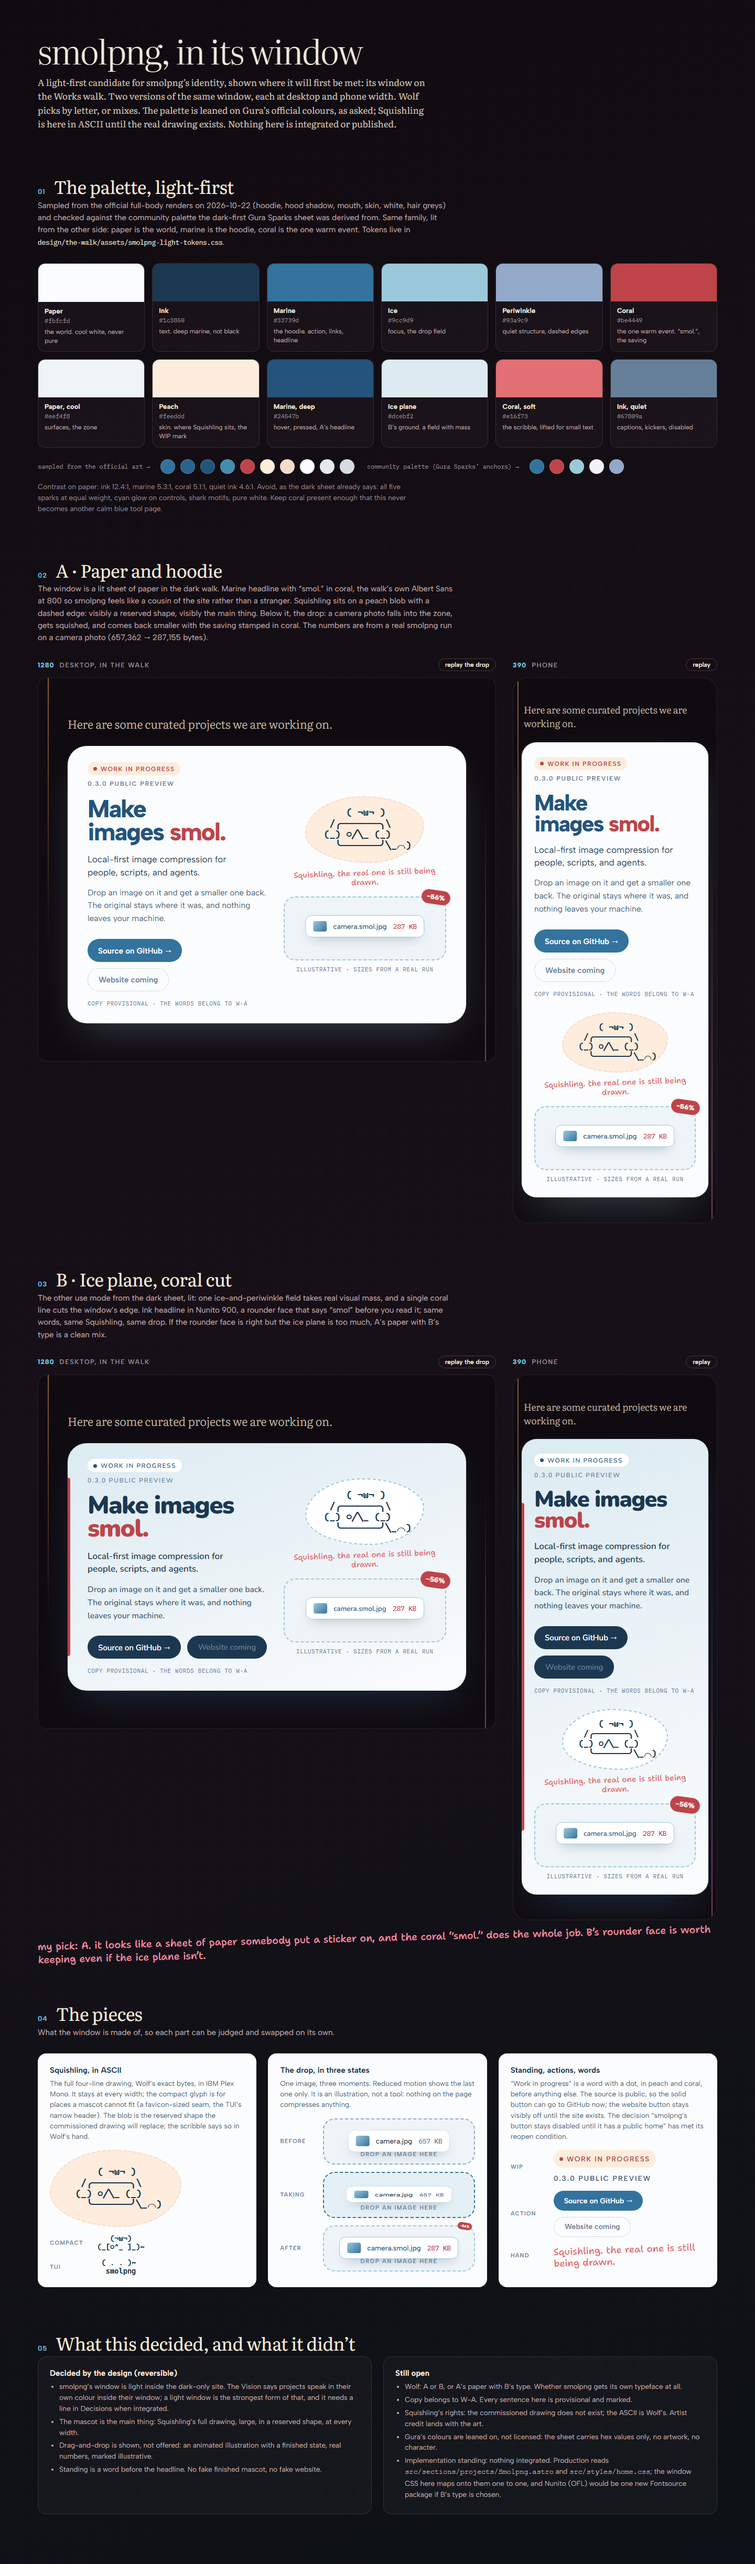
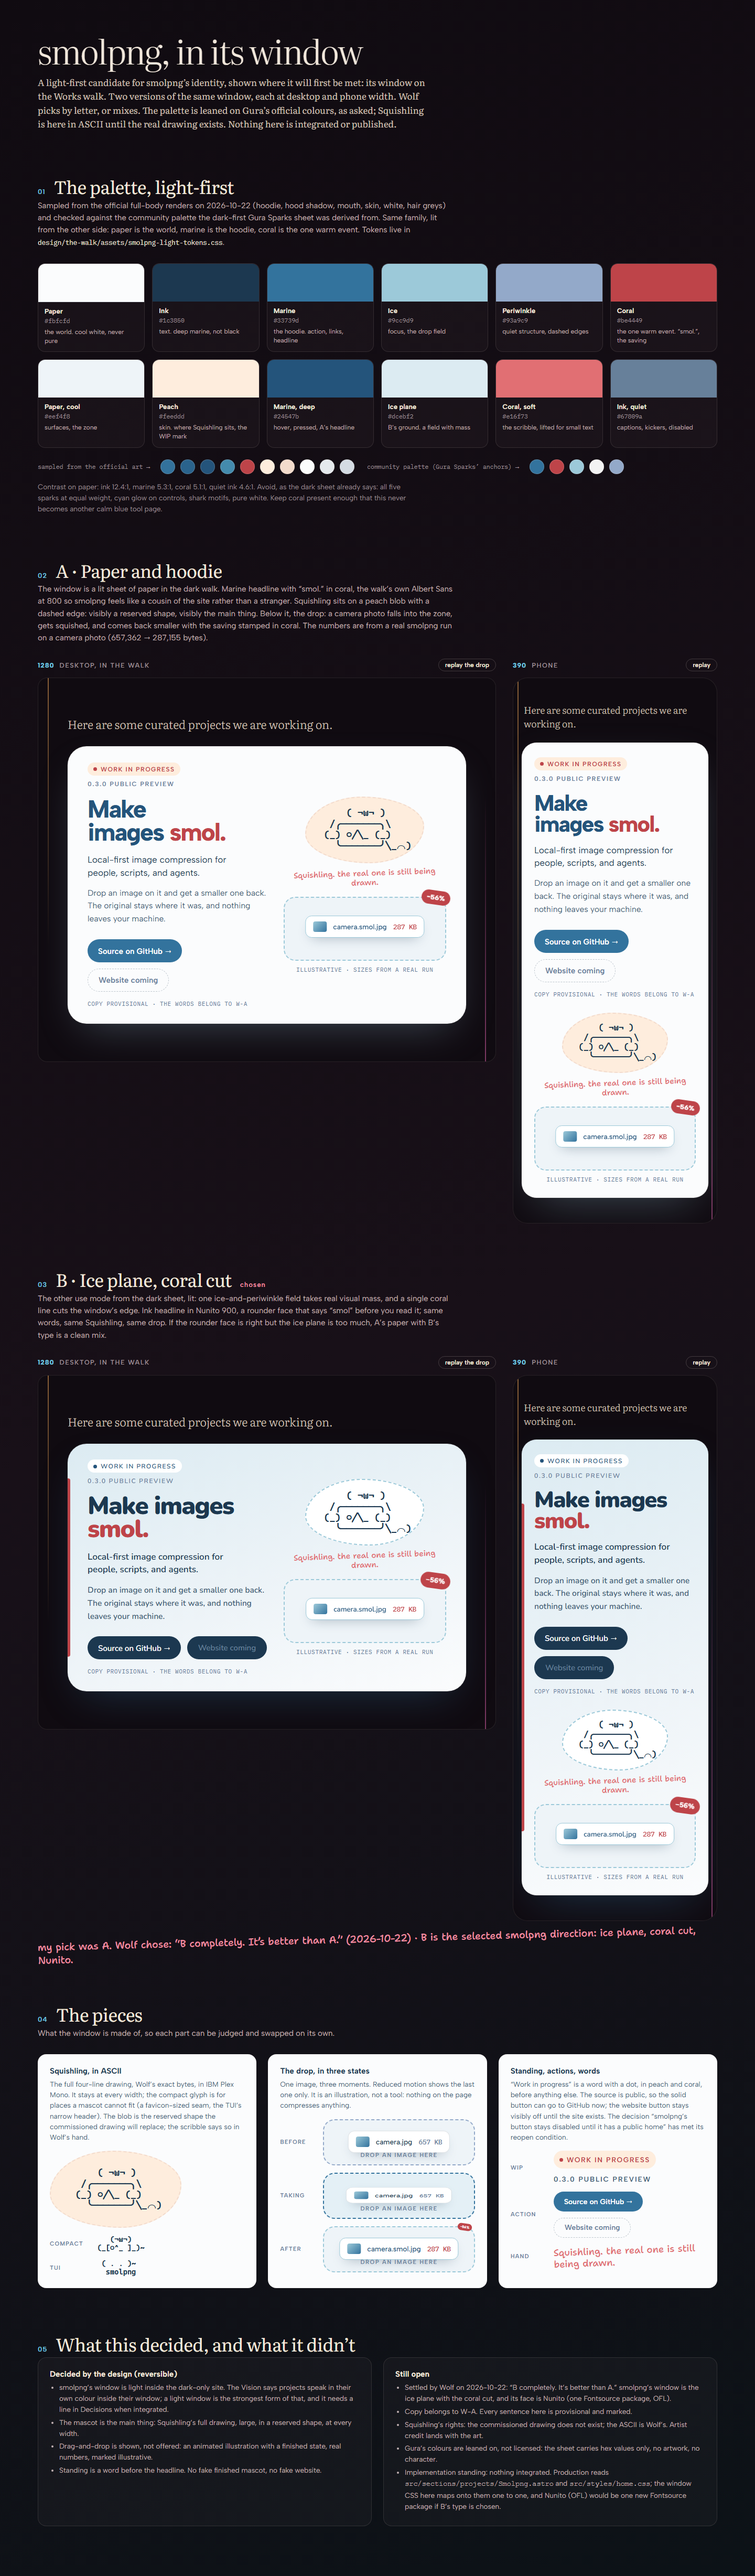
docs: record Wolf's selection of smolpng window B
Wolf chose version B, the ice plane with the coral cut and Nunito, over A on 2026-10-22. The board, its open list and the token sheet now carry that selection; the board preview is re-rendered.

Co-authored-via: Tala | Claude Code | Fable 5.1 | High

diff --git a/design/the-walk/project/Smolpng.dc.html b/design/the-walk/project/Smolpng.dc.html
@@ -221,7 +221,7 @@ body{margin:0;background:#100b11;color:#f3e8dc;font-family:'Albert Sans',system-
 </section>
 
 <section class="sec">
-<h2 class="sec-h"><span class="n">03</span> B · Ice plane, coral cut</h2>
+<h2 class="sec-h"><span class="n">03</span> B · Ice plane, coral cut <span class="n" style="color:#ef8ea1">chosen</span></h2>
 <p class="sec-p">The other use mode from the dark sheet, lit: one ice-and-periwinkle field takes real visual mass, and a single coral line cuts the window’s edge. Ink headline in Nunito 900, a rounder face that says “smol” before you read it; same words, same Squishling, same drop. If the rounder face is right but the ice plane is too much, A’s paper with B’s type is a clean mix.</p>
 <div class="two">
   <div>
@@ -233,7 +233,7 @@ body{margin:0;background:#100b11;color:#f3e8dc;font-family:'Albert Sans',system-
     <div class="walk walk-narrow" data-variant="b"><p class="guide">Here are some curated projects we are working on.</p><div class="frame" data-frame="b-narrow"></div></div>
   </div>
 </div>
-<div class="rec">my pick: A. it looks like a sheet of paper somebody put a sticker on, and the coral “smol.” does the whole job. B’s rounder face is worth keeping even if the ice plane isn’t.</div>
+<div class="rec">my pick was A. Wolf chose: “B completely. It’s better than A.” (2026-10-22) · B is the selected smolpng direction: ice plane, coral cut, Nunito.</div>
 </section>
 
 <section class="sec">
@@ -290,7 +290,7 @@ body{margin:0;background:#100b11;color:#f3e8dc;font-family:'Albert Sans',system-
   <div class="part">
     <h3>Still open</h3>
     <ul>
-      <li>Wolf: A or B, or A’s paper with B’s type. Whether smolpng gets its own typeface at all.</li>
+      <li>Settled by Wolf on 2026-10-22: “B completely. It’s better than A.” smolpng’s window is the ice plane with the coral cut, and its face is Nunito (one Fontsource package, OFL).</li>
       <li>Copy belongs to W-A. Every sentence here is provisional and marked.</li>
       <li>Squishling’s rights: the commissioned drawing does not exist; the ASCII is Wolf’s. Artist credit lands with the art.</li>
       <li>Gura’s colours are leaned on, not licensed: the sheet carries hex values only, no artwork, no character.</li>

diff --git a/design/the-walk/assets/smolpng-light-tokens.css b/design/the-walk/assets/smolpng-light-tokens.css
@@ -32,7 +32,7 @@
   --smol-peach: #feeddd;
   --smol-peach-deep: #f3dbcc;
 
-  /* type, provisional: A keeps the walk's Albert Sans, B tries a rounder face. Mono carries Squishling. */
+  /* type: Wolf chose version B on 2026-10-22, so the rounder face is smolpng's. Albert Sans remains the fallback. Mono carries Squishling. */
   --smol-sans: 'Albert Sans', system-ui, sans-serif;
   --smol-sans-round: 'Nunito', 'Albert Sans', system-ui, sans-serif;
   --smol-mono: 'IBM Plex Mono', 'Cascadia Mono', Consolas, 'DejaVu Sans Mono', ui-monospace, monospace;
